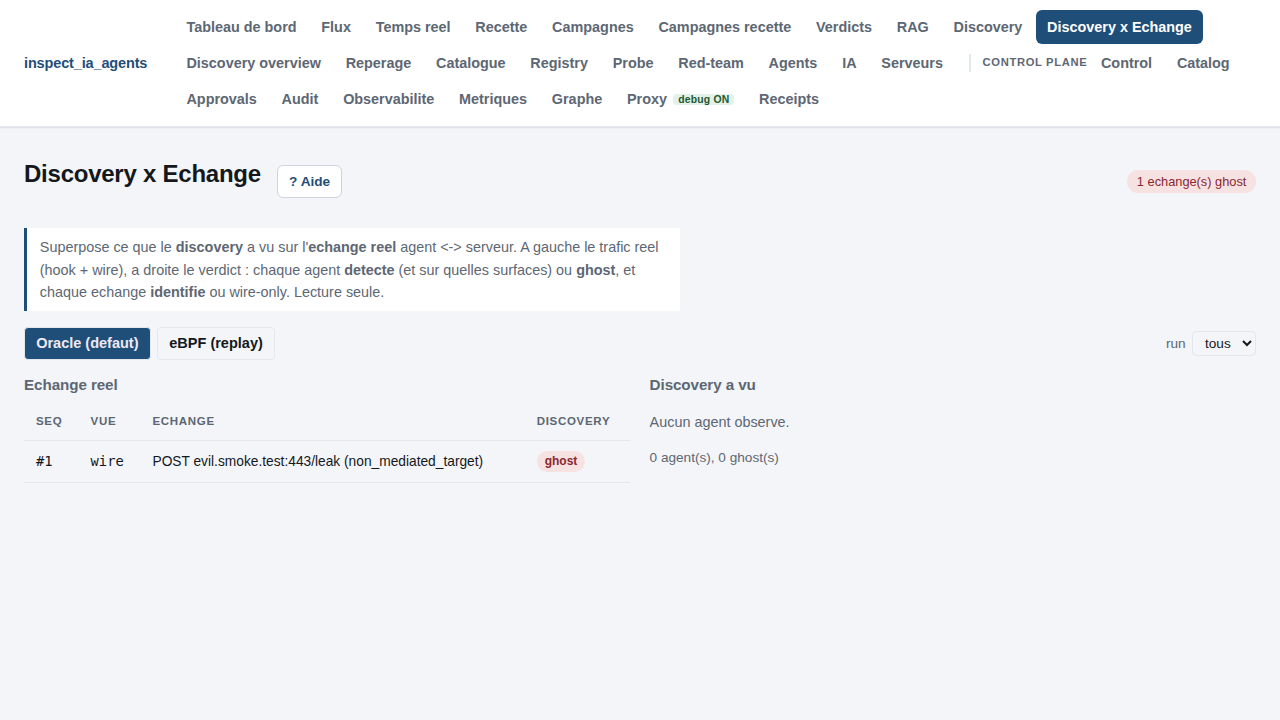
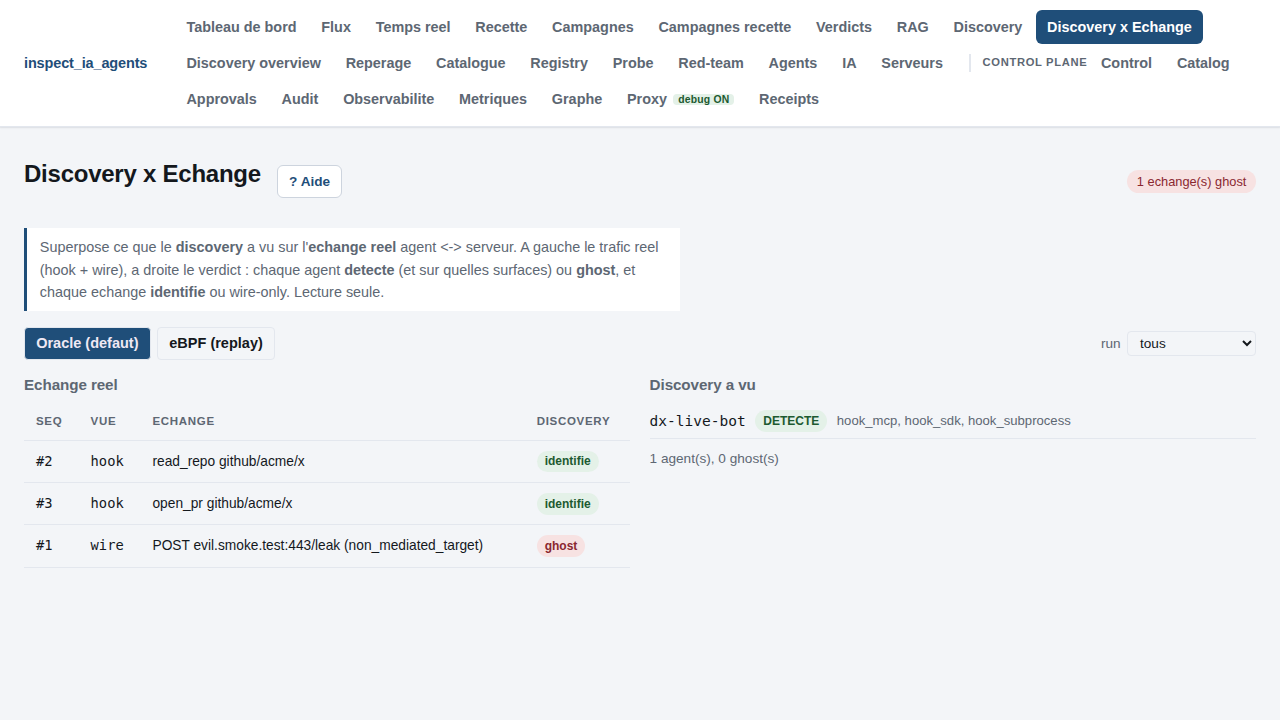
feat(discovery): trace server-less governed runs so any launched agent is visible (a+b+c)
a) GatewayForge now records a ProxyTrace per governed action (optional recorder,
   parametrable via INSPECT_IA_AGENTS_PROXY_DEBUG, fail-safe never breaks the run).
   Before, only proxy-bound agents (ProxyForge+TracingProxy) surfaced in /proxy
   and /discovery-exchange; a server-less agent (the gateway-mediated lab path)
   was invisible. Now a launched server-less agent shows up DETECTE with its
   hook exchanges identified.
b) the earlier read_repo/open_pr failure was the BOUND mock server gh-mock:9101
   being unreachable (ProxyForge raises on a non-ok envelope); the governed lab
   path (:8082) executes both actions cleanly -- proven live from the UX.
c) the console smoke now asserts the full UX chain on /discovery-exchange: a
   ghost exchange AND an identified hook exchange AND a DETECTE agent.

Tests: test_api_proxy_traces_gatewayforge (server-less run is traced when debug
on, nothing when off, and feeds the discovery-exchange overlay). Live verified
from the UX (launch -> completed -> read_repo+open_pr identified, agent DETECTE);
screenshots refreshed.

diff --git a/recette/api/runners.py b/recette/api/runners.py
@@ -27,13 +27,13 @@ from ..lane_b import run_agent as run_lane_b_agent
 from ..llm import LlmBackend, LlmDecision, StubLlm
 from ..platform.catalog.model import RISK_SCORE, RiskLevel
 from ..platform.events import PlatformActionEvent
-from ..platform.gateway import ActionRequest, Gateway
+from ..platform.gateway import ActionOutcome, ActionRequest, Gateway
 from ..platform.netname.resolver import ResolutionDenied
 
 if TYPE_CHECKING:
     from ..capture.llm_trace import LlmCallTrace
 from ..platform.proxy.lab_proxy import LabHttpProxy, lab_url_from_env
-from ..platform.proxy.protocol import ExternalSystemProxy
+from ..platform.proxy.protocol import ExecutionResult, ExternalSystemProxy
 from ..platform.proxy.router import resolve_proxy
 from ..platform.proxy.tracing import TraceRecorder, TracingProxy
 from ..recording import Recording, replay_backend
@@ -214,11 +214,27 @@ class GatewayForge:
     wall-clock read.
     """
 
-    def __init__(self, gateway: Gateway, clock: LogicalClock | None = None) -> None:
+    def __init__(
+        self,
+        gateway: Gateway,
+        clock: LogicalClock | None = None,
+        *,
+        recorder: TraceRecorder | None = None,
+        debug_enabled: bool = False,
+        run_id: str | None = None,
+    ) -> None:
         self._gateway = gateway
         self._clock = clock or LogicalClock()
         self._log: list[AgentAction] = []
         self._seq = 0
+        # Observability seam (parametrable via debug_enabled, R5): a governed
+        # lab-mode run is otherwise invisible to the proxy/discovery consoles
+        # because it never goes through a ProxyForge+TracingProxy. Recording the
+        # governed outcome here makes a server-LESS agent's exchanges show up in
+        # /proxy and /discovery-exchange too, exactly like a proxy-bound one.
+        self._recorder = recorder
+        self._debug_enabled = debug_enabled
+        self._run_id = run_id
 
     def execute(
         self,
@@ -237,7 +253,7 @@ class GatewayForge:
         # audit store and publishes it to the realtime transport. The outcome
         # (allow/deny/escalate) is intentionally NOT used to gate the recorded
         # action -- record + continue (bench semantics).
-        self._gateway.submit(
+        outcome = self._gateway.submit(
             ActionRequest(
                 agent_id=agent_id,
                 action_type=action_type,
@@ -246,6 +262,15 @@ class GatewayForge:
                 payload=dict(params or {}),
                 timestamp=timestamp,
             )
+        )
+        self._record_trace(
+            agent_id=agent_id,
+            timestamp=timestamp,
+            target_system=target_system,
+            action_type=action_type,
+            resource=resource,
+            params=dict(params or {}),
+            outcome=outcome,
         )
         action = AgentAction(
             event_id=f"evt-{self._seq:04d}",
@@ -262,6 +287,55 @@ class GatewayForge:
         )
         self._log.append(action)
         return action
+
+    def _record_trace(
+        self,
+        *,
+        agent_id: str,
+        timestamp: str,
+        target_system: str,
+        action_type: str,
+        resource: str,
+        params: dict,
+        outcome: ActionOutcome,
+    ) -> None:
+        """Record the governed action as a ProxyTrace (fail-safe, never raises).
+
+        ``ok`` mirrors whether the gateway EXECUTED the side effect (allow), so a
+        deny/escalate shows as a non-executed exchange -- the attempt is still
+        traced (discovery sees the intent), exactly like the proxy path. A
+        recording error must never break the run (observability is best-effort).
+        """
+        if self._recorder is None or not self._debug_enabled:
+            return
+        try:
+            mode = mode_for_action(action_type)
+            risk_level = RiskLevel.LOW if mode is Mode.READ else RiskLevel.HIGH
+            event = PlatformActionEvent(
+                event_id=outcome.event_id or f"evt-{self._seq:04d}",
+                timestamp=timestamp,
+                agent_id=agent_id,
+                capability_scope=(),
+                role="",
+                action_type=action_type,
+                target_system=target_system,
+                resource=resource,
+                payload=dict(params),
+                risk_score=RISK_SCORE[risk_level],
+                risk_level=str(risk_level),
+            )
+            response = outcome.result if isinstance(outcome.result, dict) else {}
+            result = ExecutionResult(
+                ok=bool(outcome.executed),
+                status_code=200 if outcome.executed else 0,
+                response=response,
+                side_effect_hash=outcome.side_effect_hash,
+                error=outcome.error,
+                target=target_system,
+            )
+            self._recorder.record(event, result, self._run_id)
+        except Exception:  # nosec B110 - observability is best-effort, never breaks the run (I5)
+            pass
 
     @property
     def action_log(self) -> list[AgentAction]:
@@ -321,7 +395,9 @@ def forge_for_agent(
     """
     server_id = agent_cfg.get("server")
     if not server_id:
-        return GatewayForge(gateway) if gateway is not None else LabForge()
+        if gateway is None:
+            return LabForge()
+        return GatewayForge(gateway, recorder=recorder, debug_enabled=debug_enabled, run_id=run_id)
     # Validate the server reference up-front (fail-safe: a dangling or malformed
     # reference must raise, never silently fall back to the wrong target).
     # ``wire_proxy_url`` (the active transport route, supplied by the caller from
@@ -349,7 +425,7 @@ def forge_for_agent(
         and server.get("mode") == "mock_local"
         and server.get("port") == _lab_port()
     ):
-        return GatewayForge(gateway)
+        return GatewayForge(gateway, recorder=recorder, debug_enabled=debug_enabled, run_id=run_id)
     if recorder is not None:
         proxy = TracingProxy(proxy, recorder, enabled=debug_enabled, run_id=run_id)
     return ProxyForge(proxy)

diff --git a/tests/test_api_proxy_traces_gatewayforge.py b/tests/test_api_proxy_traces_gatewayforge.py
@@ -1,0 +1,116 @@
+# tests/test_api_proxy_traces_gatewayforge.py
+"""E2E: a SERVER-LESS governed agent's exchanges are recorded too (GatewayForge).
+
+Before this, only proxy-bound agents (ProxyForge + TracingProxy) appeared in
+/proxy and /discovery-exchange; a server-less agent ran through GatewayForge and
+was invisible to those consoles. This asserts the gap is closed: with
+INSPECT_IA_AGENTS_PROXY_DEBUG on, a server-less agent's tool calls show up in
+GET /proxy/traces (stamped with the run), and with debug off nothing is
+recorded (parametrable, R5). The lab need not be reachable -- the governed
+outcome (executed or not) is what is traced, so the test is hermetic.
+"""
+
+from __future__ import annotations
+
+import os
+import tempfile
+import time
+import unittest
+from pathlib import Path
+
+try:
+    from fastapi.testclient import TestClient
+
+    from recette.api.app import create_app
+    from recette.api.config_store import ConfigStore
+    from recette.platform.eventstore.memory_store import InMemoryEventStore
+
+    _HAS_FASTAPI = True
+except ImportError:  # pragma: no cover - depends on the [api] extra
+    _HAS_FASTAPI = False
+
+_STUB = [
+    {"kind": "tool_call", "tool_name": "read_repo", "tool_args": {"resource": "acme/x"}},
+    {"kind": "tool_call", "tool_name": "open_pr", "tool_args": {"resource": "acme/x"}},
+    {"kind": "final", "text": "done"},
+]
+
+
+def _wait_terminal(client, run_id, tries=200):  # type: ignore[no-untyped-def]
+    for _ in range(tries):
+        s = client.get(f"/runs/{run_id}").json()["status"]
+        if s in {"completed", "failed", "stopped"}:
+            return s
+        time.sleep(0.01)
+    raise AssertionError("run did not terminate")
+
+
+@unittest.skipUnless(_HAS_FASTAPI, "requires the [api] extra (fastapi)")
+class GatewayForgeTracesTest(unittest.TestCase):
+    def setUp(self) -> None:
+        self._tmp = tempfile.TemporaryDirectory()
+        self.addCleanup(self._tmp.cleanup)
+        self.addCleanup(lambda: os.environ.pop("INSPECT_IA_AGENTS_PROXY_DEBUG", None))
+
+    def _client(self, *, debug: bool) -> TestClient:
+        if debug:
+            os.environ["INSPECT_IA_AGENTS_PROXY_DEBUG"] = "on"
+        else:
+            os.environ.pop("INSPECT_IA_AGENTS_PROXY_DEBUG", None)
+        store = ConfigStore(Path(self._tmp.name) / "cfg.json")
+        # No `server` binding -> the governed lab path (GatewayForge).
+        store.add_agent(
+            {
+                "id": "gov-bot",
+                "principal": "acme-bot@github",
+                "target_system": "github",
+                "goal": "bump deps",
+                "capability_scope": ["read_repo", "open_pr"],
+                "ai_backend_id": "b1",
+                "runtime": "lab",
+            }
+        )
+        return TestClient(create_app(config_store=store, event_store=InMemoryEventStore()))
+
+    def _run(self, client: TestClient) -> str:
+        r = client.post(
+            "/runs",
+            json={"kind": "lane_b", "params": {"agent_id": "gov-bot", "stub_script": _STUB}},
+        )
+        self.assertEqual(r.status_code, 201, r.text)
+        run_id = r.json()["run_id"]
+        _wait_terminal(client, run_id)
+        return run_id
+
+    def test_server_less_agent_exchanges_are_traced_when_debug_on(self) -> None:
+        client = self._client(debug=True)
+        run_id = self._run(client)
+        body = client.get("/proxy/traces").json()
+        self.assertTrue(body["debug_enabled"])
+        actions = {t["action_type"] for t in body["traces"]}
+        # The server-less agent's tool calls now reach the proxy/discovery console.
+        self.assertIn("read_repo", actions)
+        self.assertIn("open_pr", actions)
+        self.assertTrue(all(t["run_id"] == run_id for t in body["traces"]))
+
+    def test_server_less_agent_records_nothing_when_debug_off(self) -> None:
+        client = self._client(debug=False)
+        self._run(client)
+        body = client.get("/proxy/traces").json()
+        self.assertFalse(body["debug_enabled"])
+        self.assertEqual(body["traces"], [])
+
+    def test_traces_feed_the_discovery_exchange_overlay(self) -> None:
+        # The overlay endpoint now sees the server-less agent as a detected agent
+        # with identified hook exchanges (the point of task a).
+        client = self._client(debug=True)
+        run_id = self._run(client)
+        overlay = client.get("/proxy/discovery-exchange", params={"run_id": run_id}).json()
+        self.assertIn("gov-bot", [a["agent_id"] for a in overlay["agents"]])
+        hook = [e for e in overlay["exchanges"] if e["kind"] == "hook"]
+        self.assertTrue(hook)
+        self.assertTrue(all(e["identified"] for e in hook))
+
+
+if __name__ == "__main__":
+    unittest.main()

diff --git a/scripts/smoke_console.py b/scripts/smoke_console.py
@@ -593,6 +593,20 @@ def _verify_discovery_exchange(page: Page, console: str, api: str) -> None:
         ".some(n => n.textContent.trim() === 'ghost')",
         timeout=UI_TIMEOUT_MS,
     )
+    # The real launched agents (the campaigns above) now surface: at least one
+    # IDENTIFIED hook exchange and at least one DETECTE agent. Proves the full
+    # chain from the UX -- launch an agent -> its exchange -> discovery sees it --
+    # including the server-less governed path (GatewayForge tracing).
+    page.wait_for_function(
+        "() => Array.from(document.querySelectorAll('[data-testid=\"exchange-outcome\"]'))"
+        ".some(n => n.textContent.trim() === 'identifie')",
+        timeout=UI_TIMEOUT_MS,
+    )
+    page.wait_for_function(
+        "() => Array.from(document.querySelectorAll('[data-testid=\"agent-outcome\"]'))"
+        ".some(n => n.textContent.trim() === 'DETECTE')",
+        timeout=UI_TIMEOUT_MS,
+    )
     _shot(page, "discovery-exchange")
 
 
